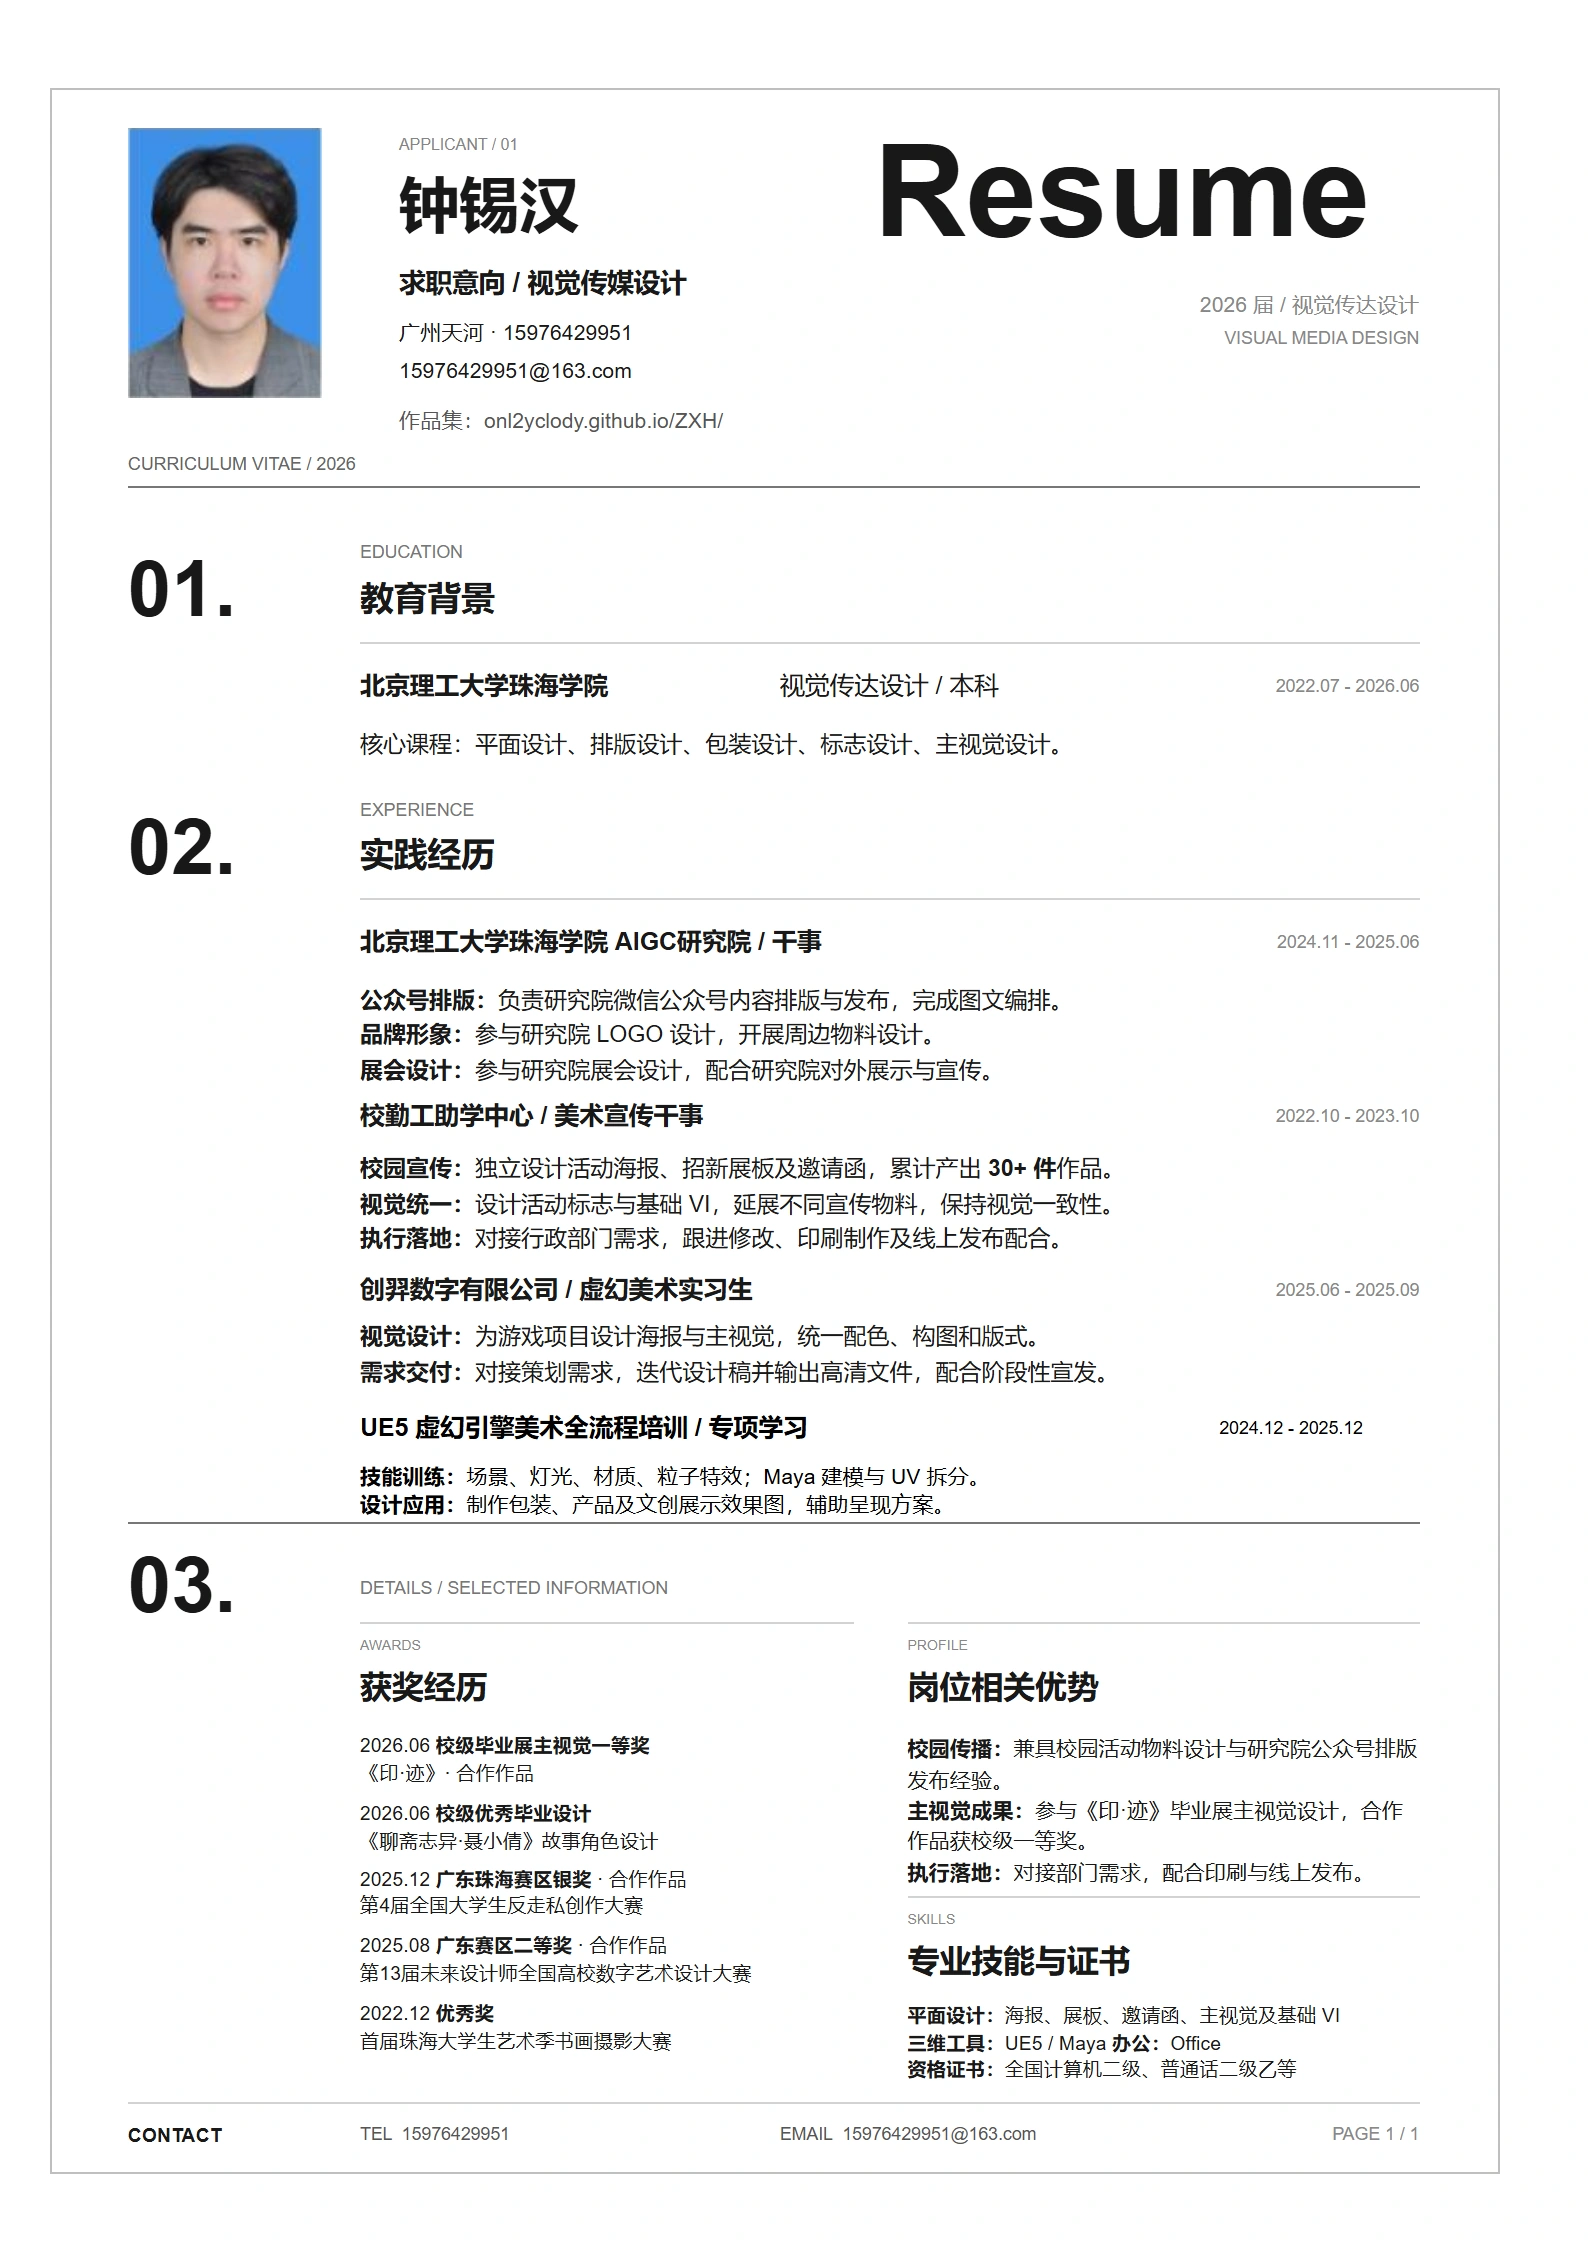
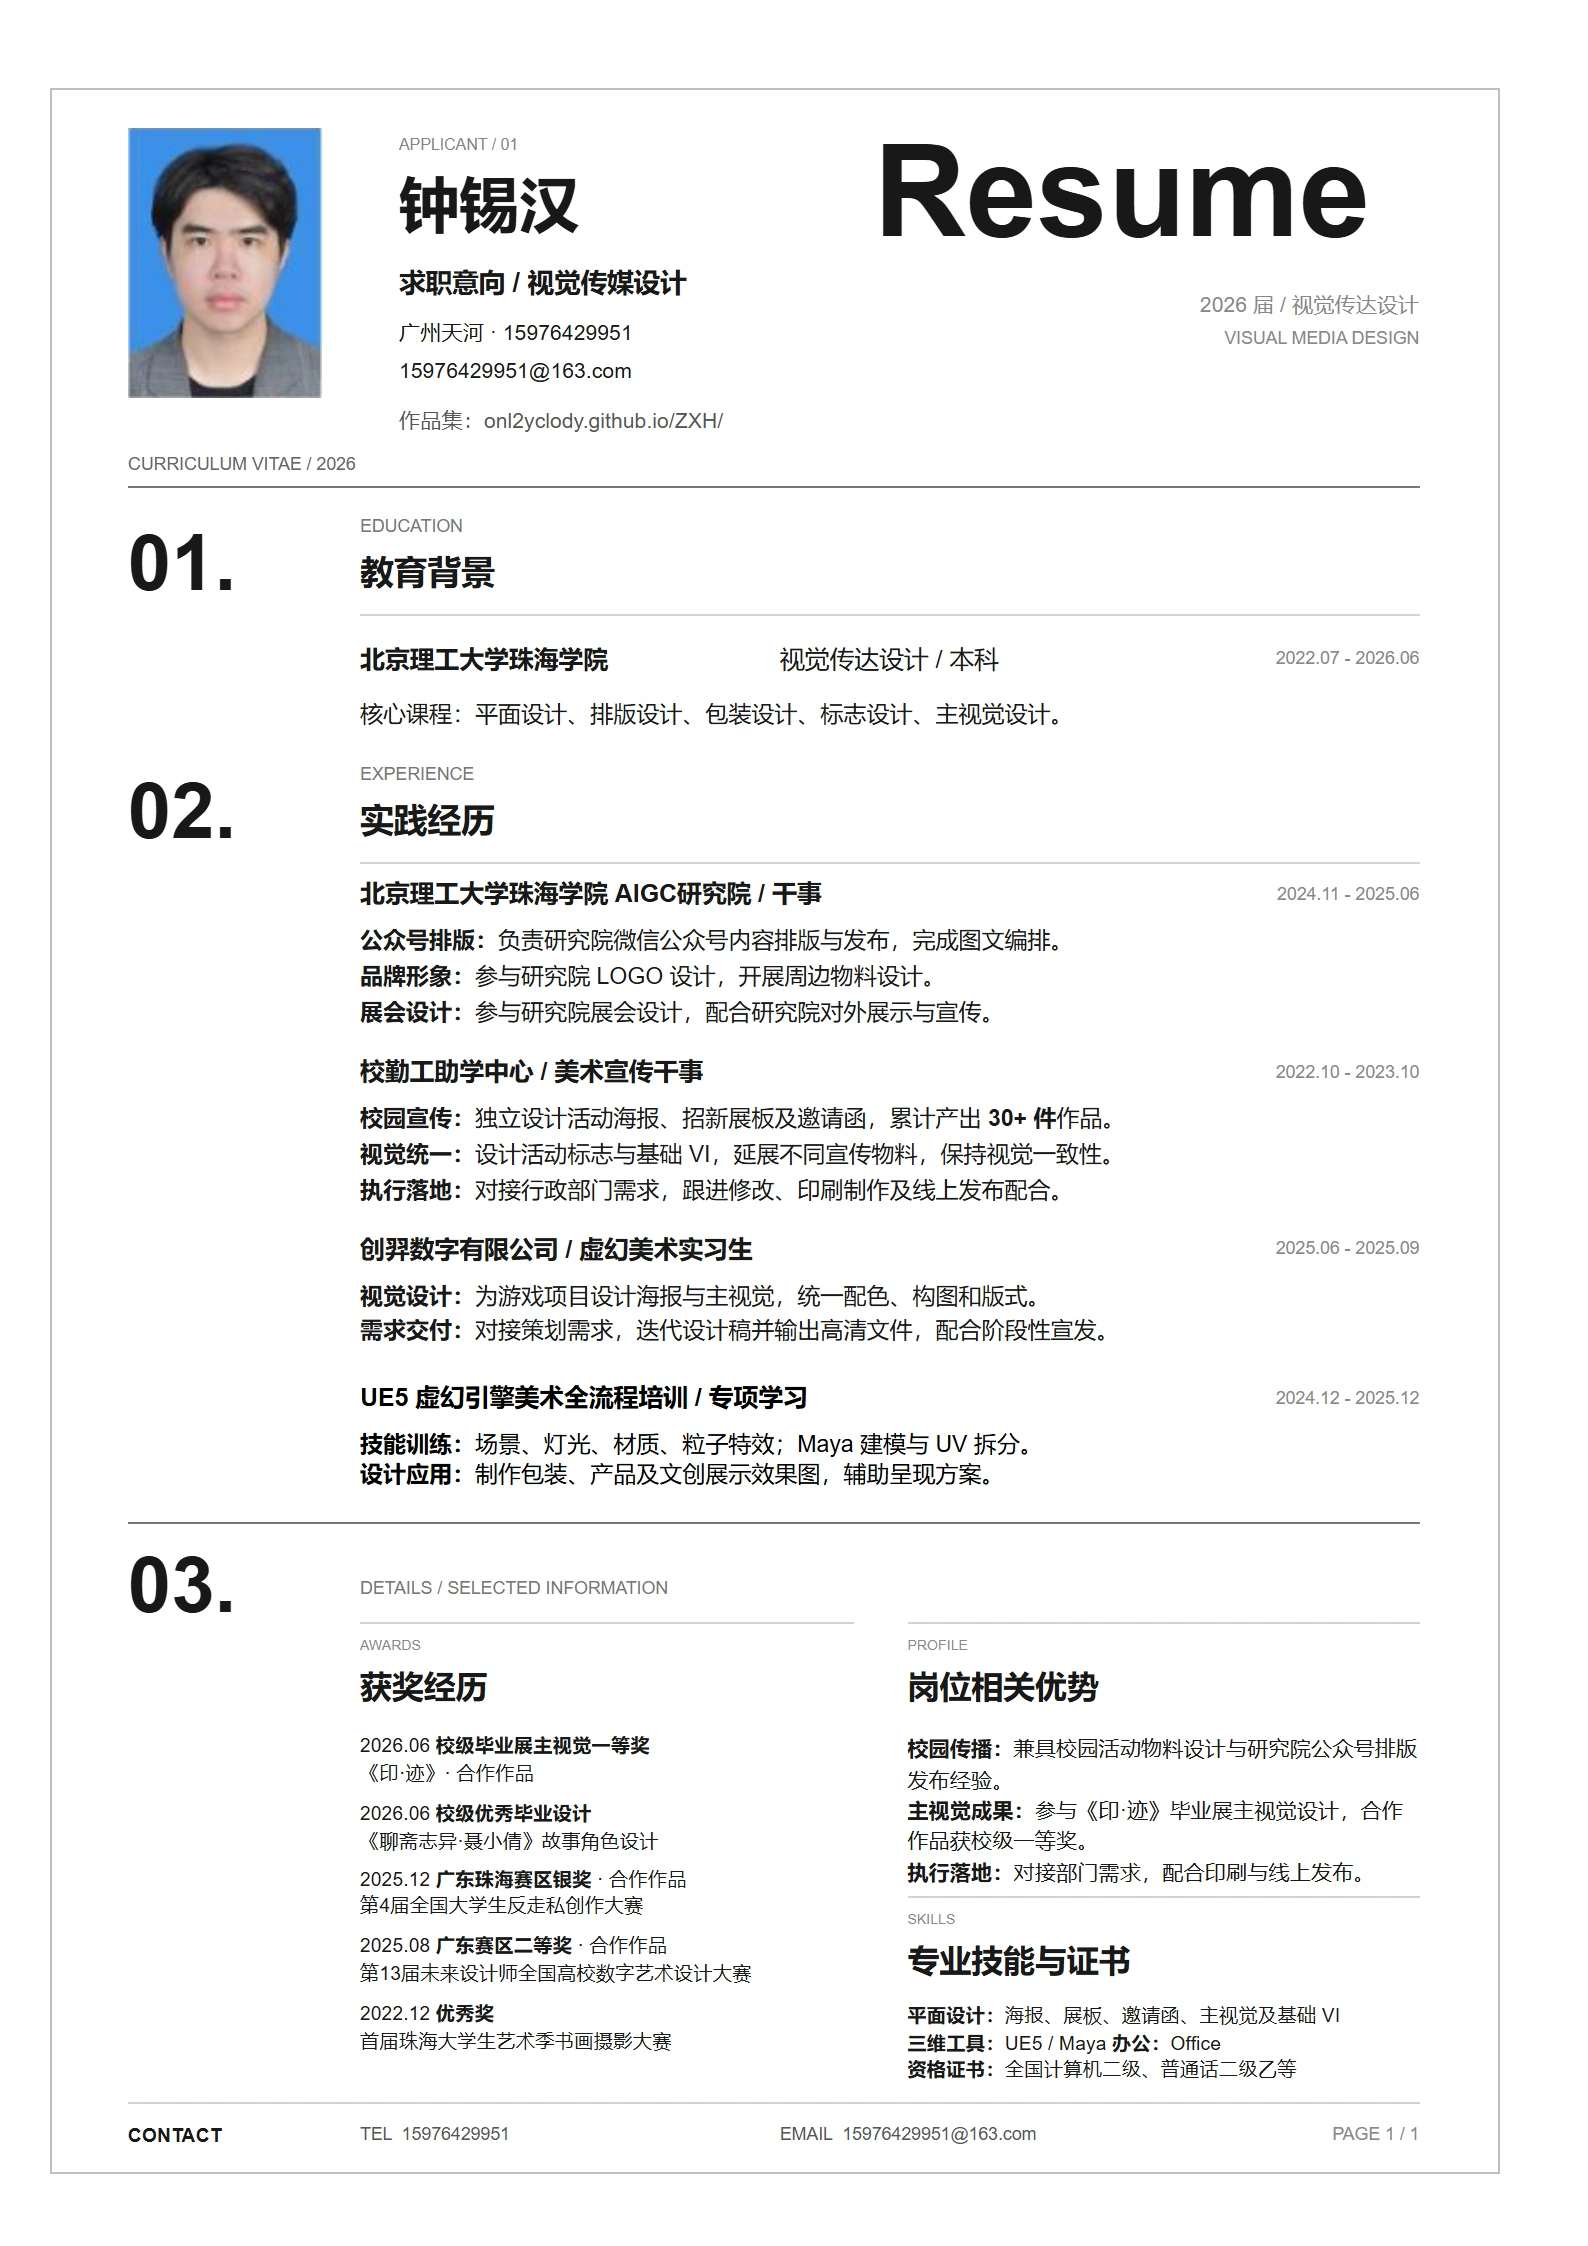
Balance resume spacing across all four experiences

diff --git a/resume.html b/resume.html
@@ -1,1 +1,1 @@
-<!doctype html><html lang="zh-CN"><head><meta charset="utf-8"><meta name="viewport" content="width=device-width,initial-scale=1"><title>钟锡汉 · 完整简历</title><style>*{box-sizing:border-box}body{margin:0;background:#f1f1ef;color:#111;font-family:Arial,'Microsoft YaHei',sans-serif;height:100dvh;display:flex;flex-direction:column}header{display:flex;justify-content:space-between;align-items:center;gap:12px;padding:14px 20px;background:white;border-bottom:1px solid #ccc;flex-wrap:wrap}a{color:inherit;text-decoration:none;font-size:13px;padding:8px}main{flex:1;min-height:0;padding:16px;display:flex;justify-content:center}main a{display:block;height:100%;max-width:100%;padding:0}img{display:block;max-width:100%;height:100%;object-fit:contain}small{font-size:11px;color:#666}@media(max-width:600px){header{padding:10px}header strong{font-size:15px}header small{width:100%;text-align:center}main{padding:10px}}</style><link rel="stylesheet" href="portfolio-design-system.css?v=55ba14368c1b"><script defer src="hold-feedback.js?v=8f5ffacb87a3"></script><meta name="theme-color" content="#b497cf"><link rel="icon" type="image/svg+xml" href="favicon.svg"></head><body><header><a href="index.html?albums=1">← 返回专辑项目</a><strong>钟锡汉 · 个人简历</strong><a href="portfolio-profile.html#resume">个人资料 →</a><small>点击简历图片可打开原图放大查看</small></header><main><a href="resume-full.webp?v=20261110-aigc-ue5" target="_blank" rel="noopener"><img src="resume-full.webp?v=20261110-aigc-ue5" alt="钟锡汉平面设计师简历，包含教育背景、实践经历、获奖经历、专业技能与个人网站链接"></a></main></body></html>
+<!doctype html><html lang="zh-CN"><head><meta charset="utf-8"><meta name="viewport" content="width=device-width,initial-scale=1"><title>钟锡汉 · 完整简历</title><style>*{box-sizing:border-box}body{margin:0;background:#f1f1ef;color:#111;font-family:Arial,'Microsoft YaHei',sans-serif;height:100dvh;display:flex;flex-direction:column}header{display:flex;justify-content:space-between;align-items:center;gap:12px;padding:14px 20px;background:white;border-bottom:1px solid #ccc;flex-wrap:wrap}a{color:inherit;text-decoration:none;font-size:13px;padding:8px}main{flex:1;min-height:0;padding:16px;display:flex;justify-content:center}main a{display:block;height:100%;max-width:100%;padding:0}img{display:block;max-width:100%;height:100%;object-fit:contain}small{font-size:11px;color:#666}@media(max-width:600px){header{padding:10px}header strong{font-size:15px}header small{width:100%;text-align:center}main{padding:10px}}</style><link rel="stylesheet" href="portfolio-design-system.css?v=55ba14368c1b"><script defer src="hold-feedback.js?v=8f5ffacb87a3"></script><meta name="theme-color" content="#b497cf"><link rel="icon" type="image/svg+xml" href="favicon.svg"></head><body><header><a href="index.html?albums=1">← 返回专辑项目</a><strong>钟锡汉 · 个人简历</strong><a href="portfolio-profile.html#resume">个人资料 →</a><small>点击简历图片可打开原图放大查看</small></header><main><a href="resume-full.webp?v=20261110-aigc-ue5?v=20261110-aigc-ue5?v=20261110-aigc-ue5" target="_blank" rel="noopener"><img src="resume-full.webp?v=20261110-aigc-ue5?v=20261110-aigc-ue5?v=20261110-aigc-ue5" alt="钟锡汉平面设计师简历，包含教育背景、实践经历、获奖经历、专业技能与个人网站链接"></a></main></body></html>
